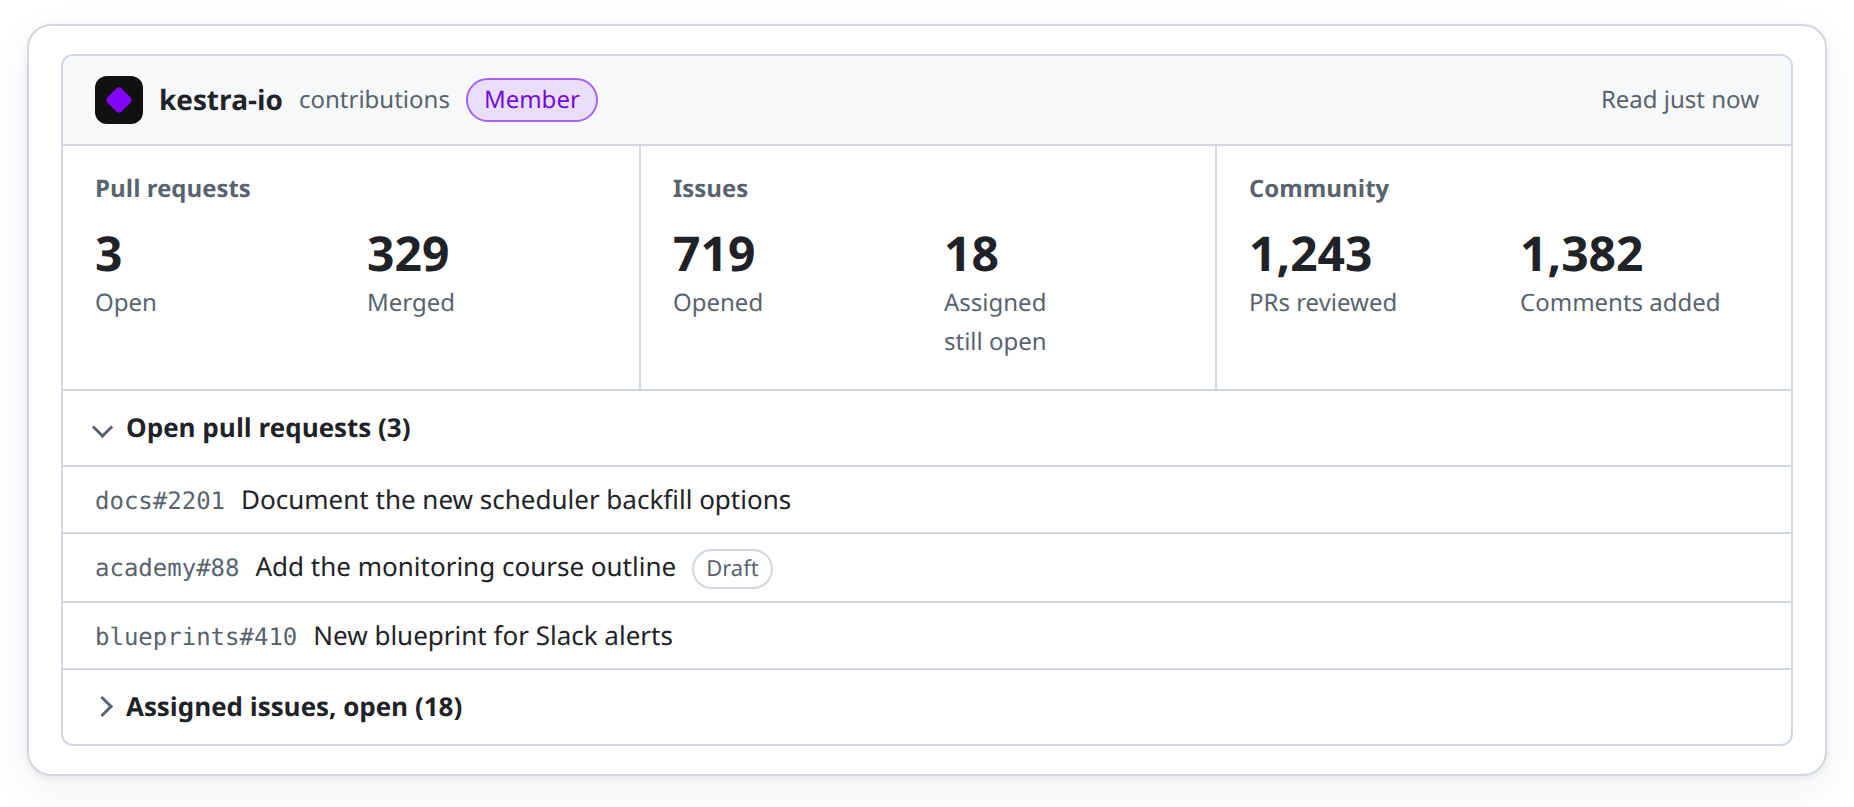
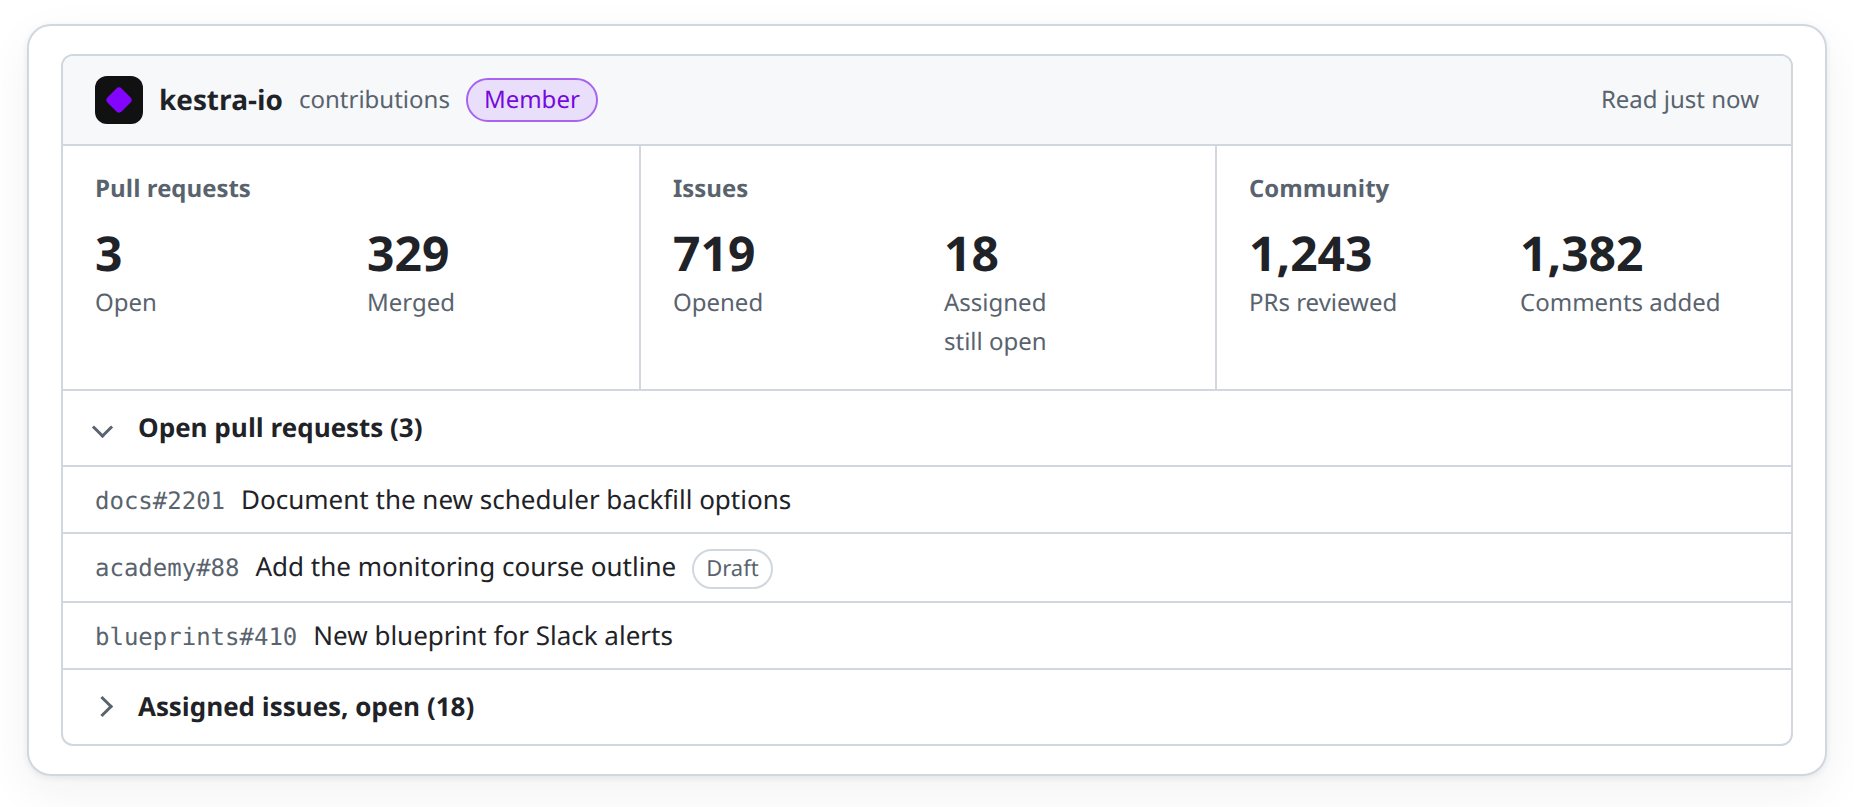
fix(profiles): add space between the accordion arrow and its title
The arrow of the profile panel's accordions sat tight against the heading text.

- Widen the gap between the arrow and the title of the accordions
- Update the site mock-up and the example images

Changed region(s): [[0.0615, 0.4957, 0.246, 0.5576], [0.0615, 0.8674, 0.2767, 0.8984]]

diff --git a/docs/index.html b/docs/index.html
@@ -367,7 +367,7 @@
     .mock-profile .nm { display: block; font-size: 24px; font-weight: 600; line-height: 1.25; font-variant-numeric: tabular-nums; }
     .mock-profile .lb { display: block; font-size: 12px; color: var(--fg-muted); }
     .mock-profile .wk { border-top: 1px solid var(--border); }
-    .mock-profile .acc { display: flex; align-items: center; gap: 8px; padding: 8px 16px; font-size: 13px; font-weight: 600; }
+    .mock-profile .acc { display: flex; align-items: center; gap: 14px; padding: 8px 16px; font-size: 13px; font-weight: 600; }
     .mock-profile .acc::before { content: ""; width: 6px; height: 6px; border-right: 1.5px solid var(--fg-muted); border-bottom: 1.5px solid var(--fg-muted); transform: rotate(45deg); }
     .mock-profile .acc.shut::before { transform: rotate(-45deg); }
     .mock-profile .wl { border-top: 1px solid var(--border); }

diff --git a/content.css b/content.css
@@ -1096,7 +1096,7 @@ div:has(> .gsf-progress) {
 .gsf-profile-work > summary {
   display: flex;
   align-items: center;
-  gap: 8px;
+  gap: 14px;
   padding: 8px 16px;
   list-style: none;
   font-size: 13px;
